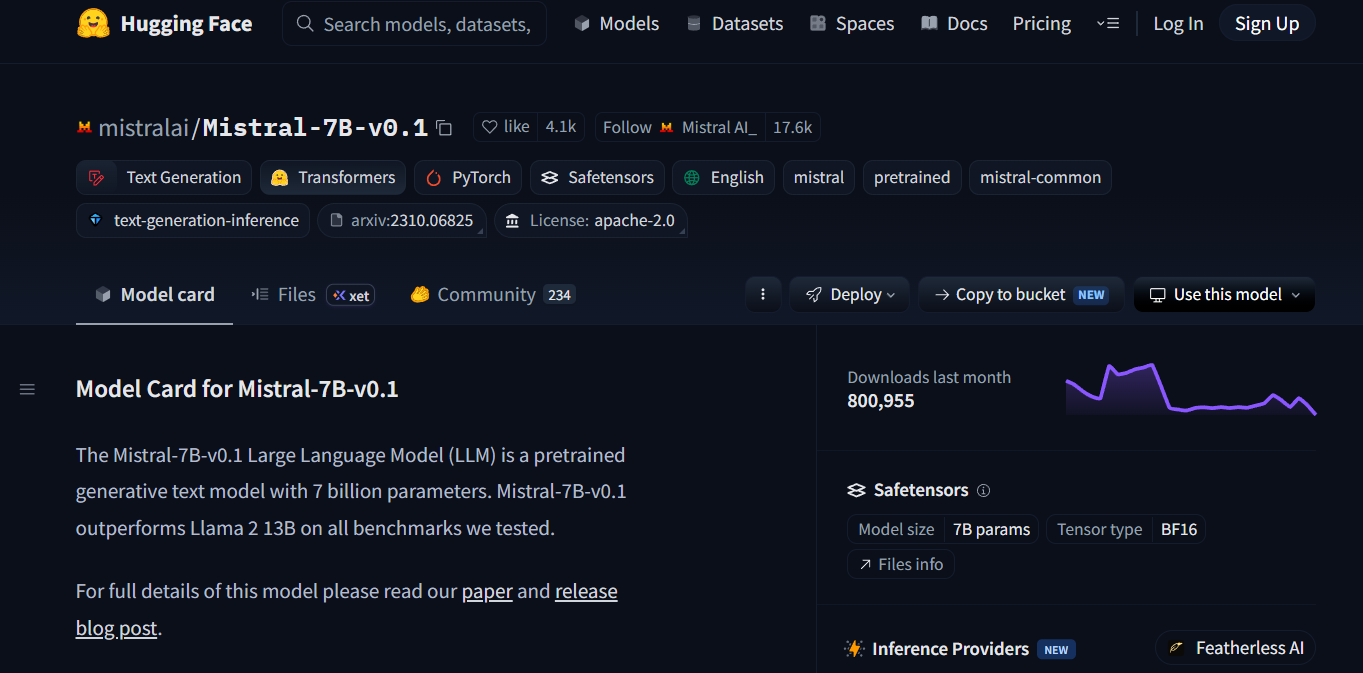
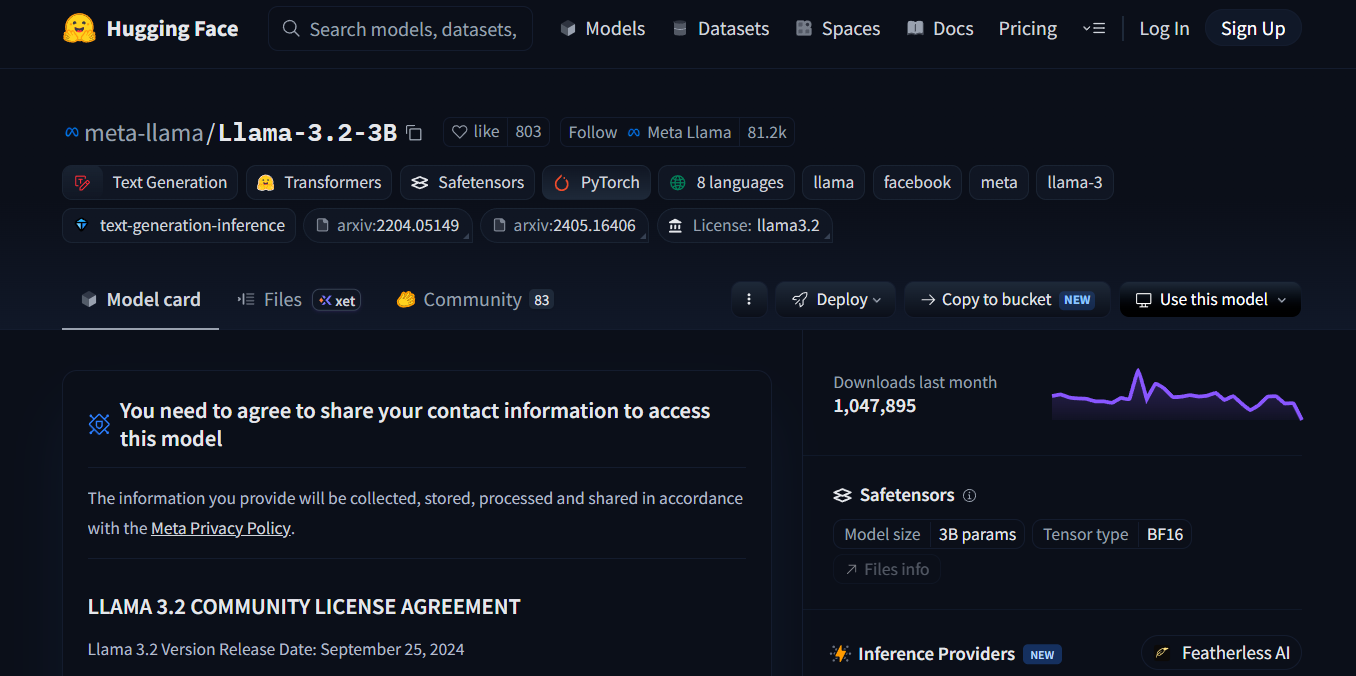
hugging2

diff --git a/panorama-ia-generativa-llm.md b/panorama-ia-generativa-llm.md
@@ -167,11 +167,13 @@ Los **embeddings** permiten representar el lenguaje como vectores numéricos, mi
 
 **Hugging Face** es una plataforma donde la comunidad de aprendizaje automático comparte modelos, datasets y aplicaciones. Para esta clase, se utilizará como fuente para consultar información técnica y documental de modelos.
 
-[Página de Huggning Face](https://huggingface.co/)
+[Página de Hugging Face](https://huggingface.co/)
 
-![Huggning Face](assets/img/llm/hugging-face.png)
+![Hugging face](assets/img/llm/hugging-face.png)
 
 Un elemento central es la **model card**. Según la documentación de Hugging Face, una model card es un archivo que acompaña al modelo y contiene información útil; normalmente corresponde al archivo `README.md` del repositorio del modelo [6].
+
+![Model Card](assets/img/llm/model-card.png)
 
 La siguiente tabla muestra los elementos principales usando como ejemplo el modelo **Llama 3.2 3B Instruct**.
 
@@ -183,8 +185,8 @@ La siguiente tabla muestra los elementos principales usando como ejemplo el mode
 | Arquitectura | ¿Qué arquitectura técnica utiliza? | Modelo de lenguaje **autoregresivo** basado en una arquitectura **transformer optimizada**. | Esto significa que genera texto prediciendo tokens de manera secuencial, usando mecanismos de atención para considerar el contexto. |
 | Licencia | ¿Permite uso académico, comercial, redistribución o modificación? | Usa la **Llama 3.2 Community License**, una licencia propia de Meta. | No debe asumirse que todos los modelos de Hugging Face son “libres” o “open source” en el mismo sentido. La licencia debe leerse antes de usar el modelo en proyectos, productos o repositorios públicos. |
 | Parámetros | ¿Cuántos parámetros tiene? | La versión 3B reporta aproximadamente **3.21 mil millones de parámetros**. | Los parámetros son valores internos aprendidos durante el entrenamiento. En general, más parámetros pueden implicar mayor capacidad, pero también mayor consumo de memoria y cómputo. |
-| Tamaño de descarga | ¿Cuánto ocupa en disco la versión usada? | En Ollama, la variante `llama3.2:3b` aparece como modelo de aproximadamente **2 GB** en una versión cuantizada. En Hugging Face, el tamaño puede variar según los archivos y formato descargado. | El tamaño de descarga no siempre coincide con el número de parámetros. Una versión cuantizada ocupa menos espacio que una versión en precisión completa o BF16. Para la actividad, el estudiante debe registrar el tamaño real con `ollama ls`. |
-| Idiomas | ¿Qué idiomas soporta oficialmente? | Soporta oficialmente **inglés, alemán, francés, italiano, portugués, hindi, español y tailandés**. | Que un modelo “pueda responder” en un idioma no significa que ese idioma esté oficialmente soportado. Para clase, es importante distinguir entre soporte declarado y desempeño observado. |
+| Tamaño de descarga | ¿Cuánto ocupa en disco la versión usada? | En Ollama, la variante `llama3.2:3b` aparece como modelo de aproximadamente **2 GB** en una versión cuantizada. En Hugging Face, el tamaño puede variar según los archivos y formato descargado. | El tamaño de descarga no siempre coincide con el número de parámetros. Una versión cuantizada ocupa menos espacio que una versión en precisión completa o BF16. |
+| Idiomas | ¿Qué idiomas soporta oficialmente? | Soporta oficialmente **inglés, alemán, francés, italiano, portugués, hindi, español y tailandés**. | Que un modelo “pueda responder” en un idioma no significa que ese idioma esté oficialmente soportado. |
 | Modalidad de entrada | ¿Qué tipo de datos recibe? | Texto multilingüe. | Este modelo es de entrada textual. No debe confundirse con modelos multimodales que aceptan imágenes, audio o video. |
 | Modalidad de salida | ¿Qué tipo de resultado produce? | Texto y código. | Puede generar explicaciones, respuestas, resúmenes, instrucciones y fragmentos de código, pero no genera imágenes directamente. |
 | Ventana de contexto | ¿Cuántos tokens puede procesar? | La versión text-only reporta una ventana de contexto de hasta **128k tokens**. | La ventana de contexto indica cuánta información puede considerar el modelo en una sola interacción. No equivale a memoria permanente ni garantiza razonamiento correcto sobre todo el texto. |
@@ -192,34 +194,10 @@ La siguiente tabla muestra los elementos principales usando como ejemplo el mode
 | Requerimientos técnicos | ¿Necesita GPU? ¿Puede ejecutarse cuantizado? | En Hugging Face puede usarse con `transformers`, `vLLM`, Docker u otros entornos. En Ollama, la versión cuantizada de aproximadamente 2 GB puede ejecutarse localmente con menor consumo de memoria. | Para una clase práctica conviene usar Ollama porque simplifica instalación y ejecución. Para uso avanzado con Hugging Face, una GPU mejora mucho el rendimiento. |
 | Comando de prueba | ¿Cómo puedo ejecutarlo? | `ollama run llama3.2:3b` | El comando permite validar rápidamente que el modelo está instalado y responde desde la terminal. |
 | Caso de uso recomendado | ¿Para qué tareas fue diseñado? | Asistentes conversacionales, recuperación de conocimiento, resumen, reescritura de prompts y aplicaciones de lenguaje. | Ayuda a seleccionar el modelo correcto. No todos los modelos sirven para lo mismo: algunos son para texto, otros para código, embeddings, visión o clasificación. |
-| Limitaciones | ¿Reporta sesgos, restricciones, riesgos o alucinaciones? | La model card advierte que, como otros LLM, puede producir respuestas inexactas, sesgadas u objetables, y recomienda realizar pruebas de seguridad según la aplicación. | El estudiante debe entender que una respuesta convincente no siempre es correcta. Todo uso académico o profesional requiere verificación, especialmente si se trabaja con información técnica, legal, médica o sensible. |
+| Limitaciones | ¿Reporta sesgos, restricciones, riesgos o alucinaciones? | La model card advierte que, como otros LLM, puede producir respuestas inexactas, sesgadas u objetables, y recomienda realizar pruebas de seguridad según la aplicación. | Una respuesta convincente no siempre es correcta. Todo uso académico o profesional requiere verificación, especialmente si se trabaja con información técnica, legal, médica o sensible. |
 | Acceso | ¿Está disponible directamente o requiere aceptar condiciones? | En Hugging Face puede requerir aceptar condiciones de acceso y compartir información de contacto. | Algunos modelos no se descargan automáticamente desde Hugging Face hasta aceptar su licencia o condiciones. Esto debe explicarse para evitar confusión durante la práctica. |
 
-> **Nota:** el número de parámetros, el tamaño de descarga y los requerimientos técnicos no son lo mismo. Un modelo puede tener 3B parámetros, pero ocupar diferentes cantidades de espacio según el formato y la cuantización. Por eso, en la actividad práctica se debe registrar el tamaño real del modelo instalado usando el comando:
->
-> ```bash
-> ollama ls
-> ```
-
-## Espacio sugerido para captura
-
-> **Imagen sugerida:** captura de la página del modelo en Hugging Face, resaltando el nombre del modelo, desarrollador, licencia, parámetros, idiomas y formato.
->
-> Ruta sugerida:
->
-> ```markdown
-> ![Página de Hugging Face de Llama 3.2 3B Instruct](assets/img/llm/huggingface-llama32-3b-model-card.png)
-> ```
-
-> **Imagen sugerida:** captura de terminal después de ejecutar `ollama ls`, donde se observe el nombre del modelo y el tamaño descargado.
->
-> Ruta sugerida:
->
-> ```markdown
-> ![Modelos instalados en Ollama](assets/img/llm/ollama-ls-llama32.png)
-> ```
-
-![Model Card](assets/img/llm/model-card.png)
+> ⚠️ **Consideración:** el número de parámetros, el tamaño de descarga y los requerimientos técnicos no son lo mismo. Un modelo puede tener 3B parámetros, pero ocupar diferentes cantidades de espacio según el formato y la cuantización.
 
 ---
 